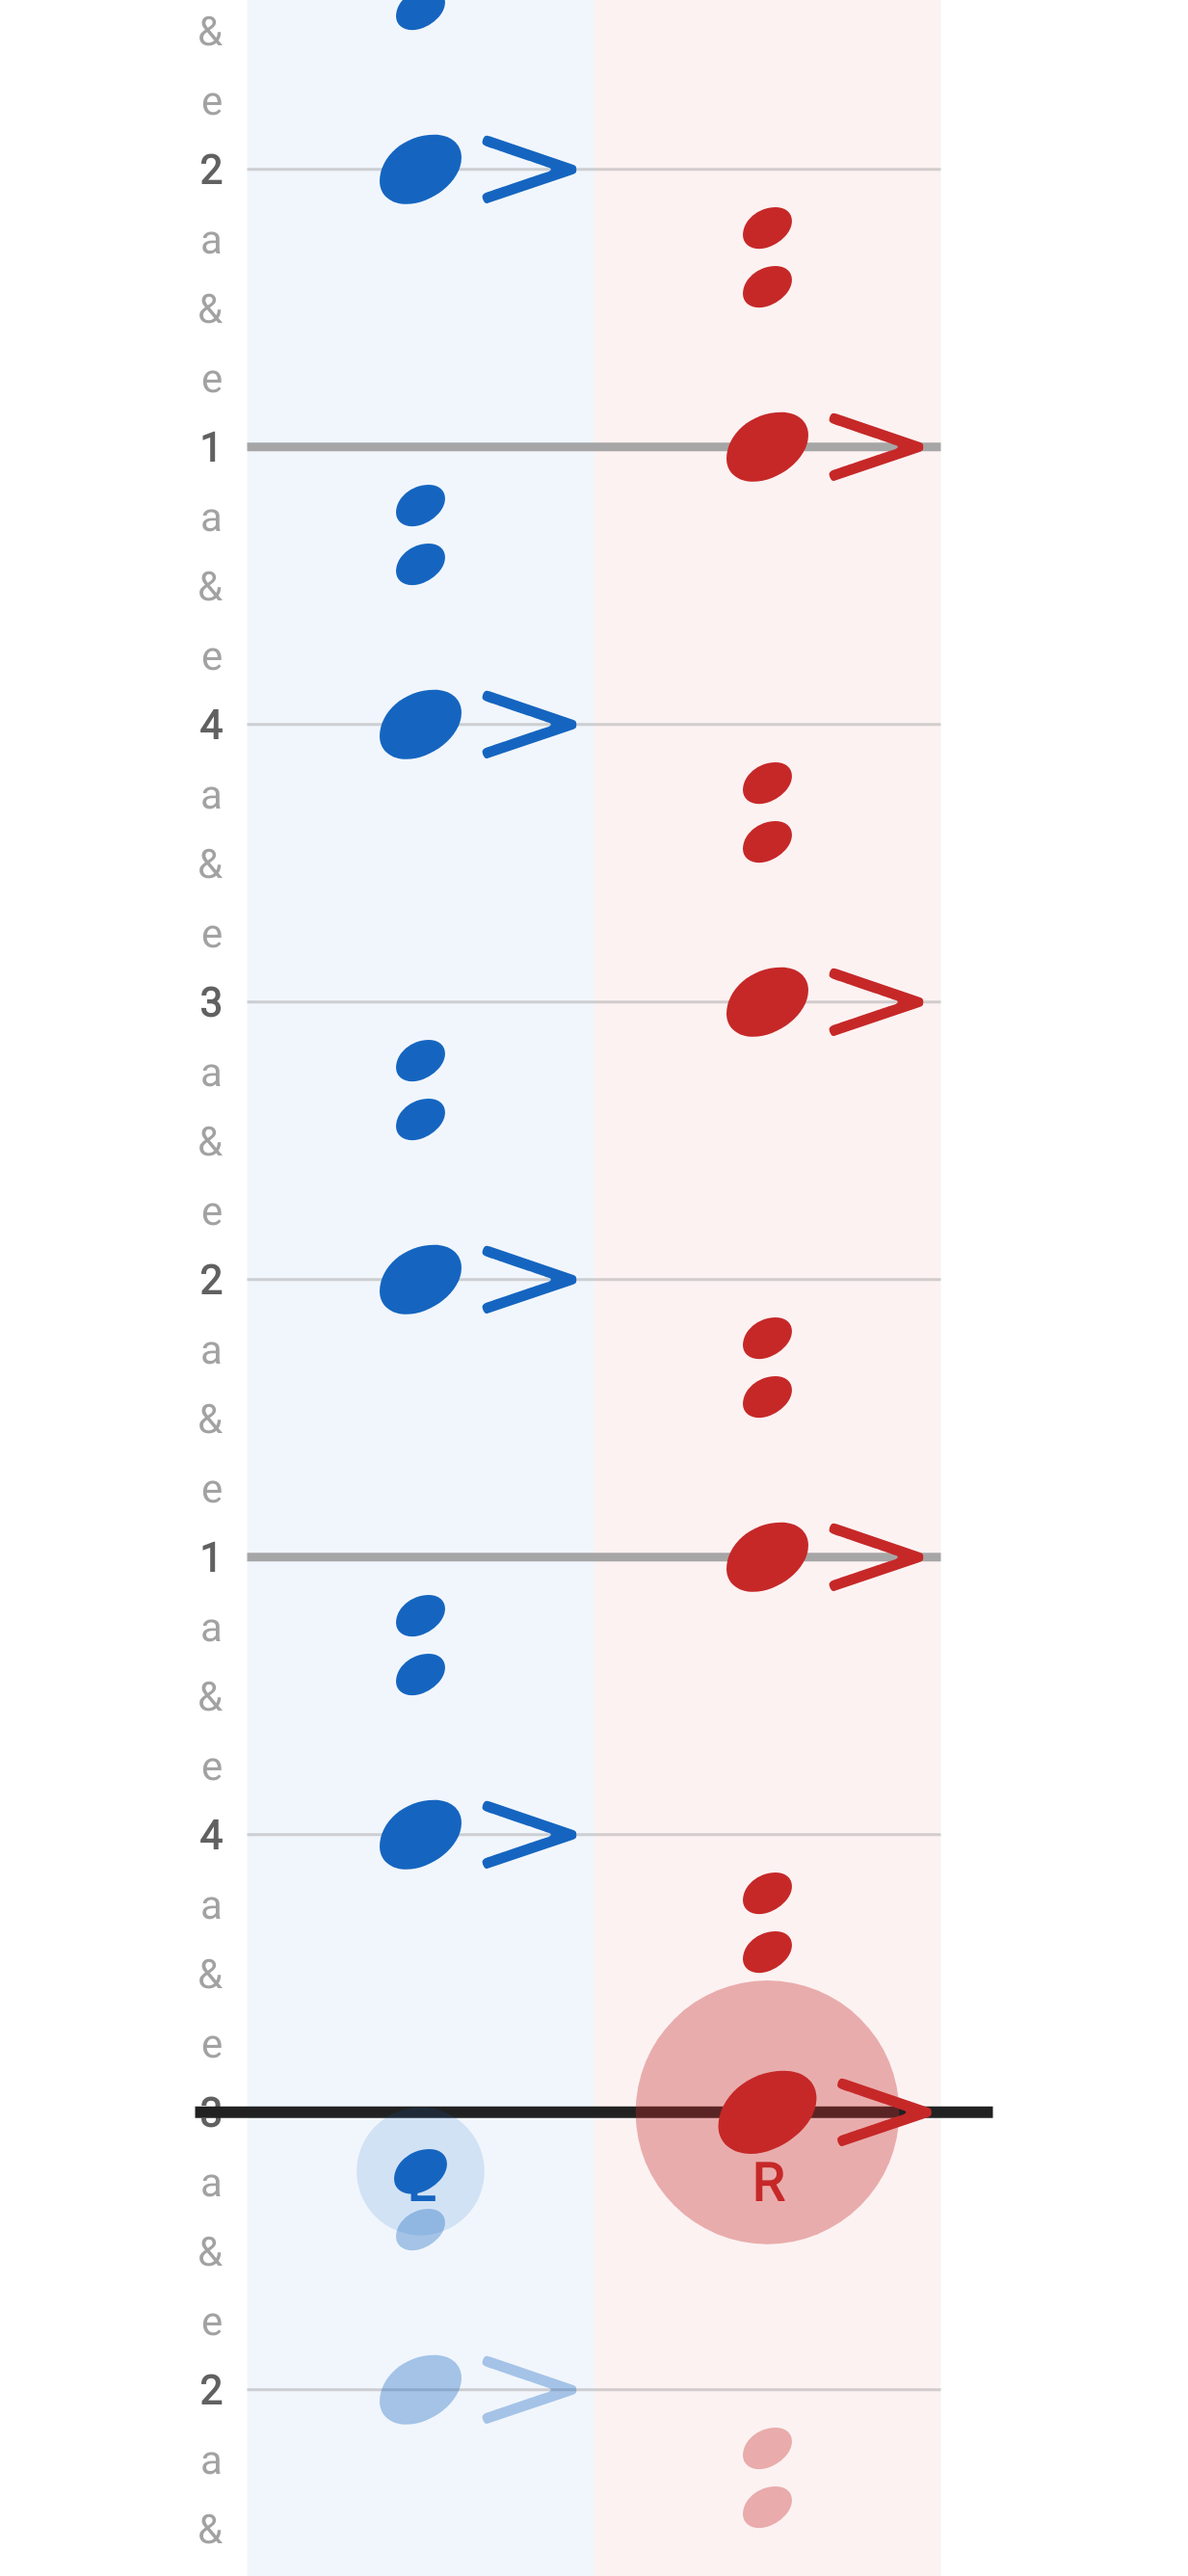
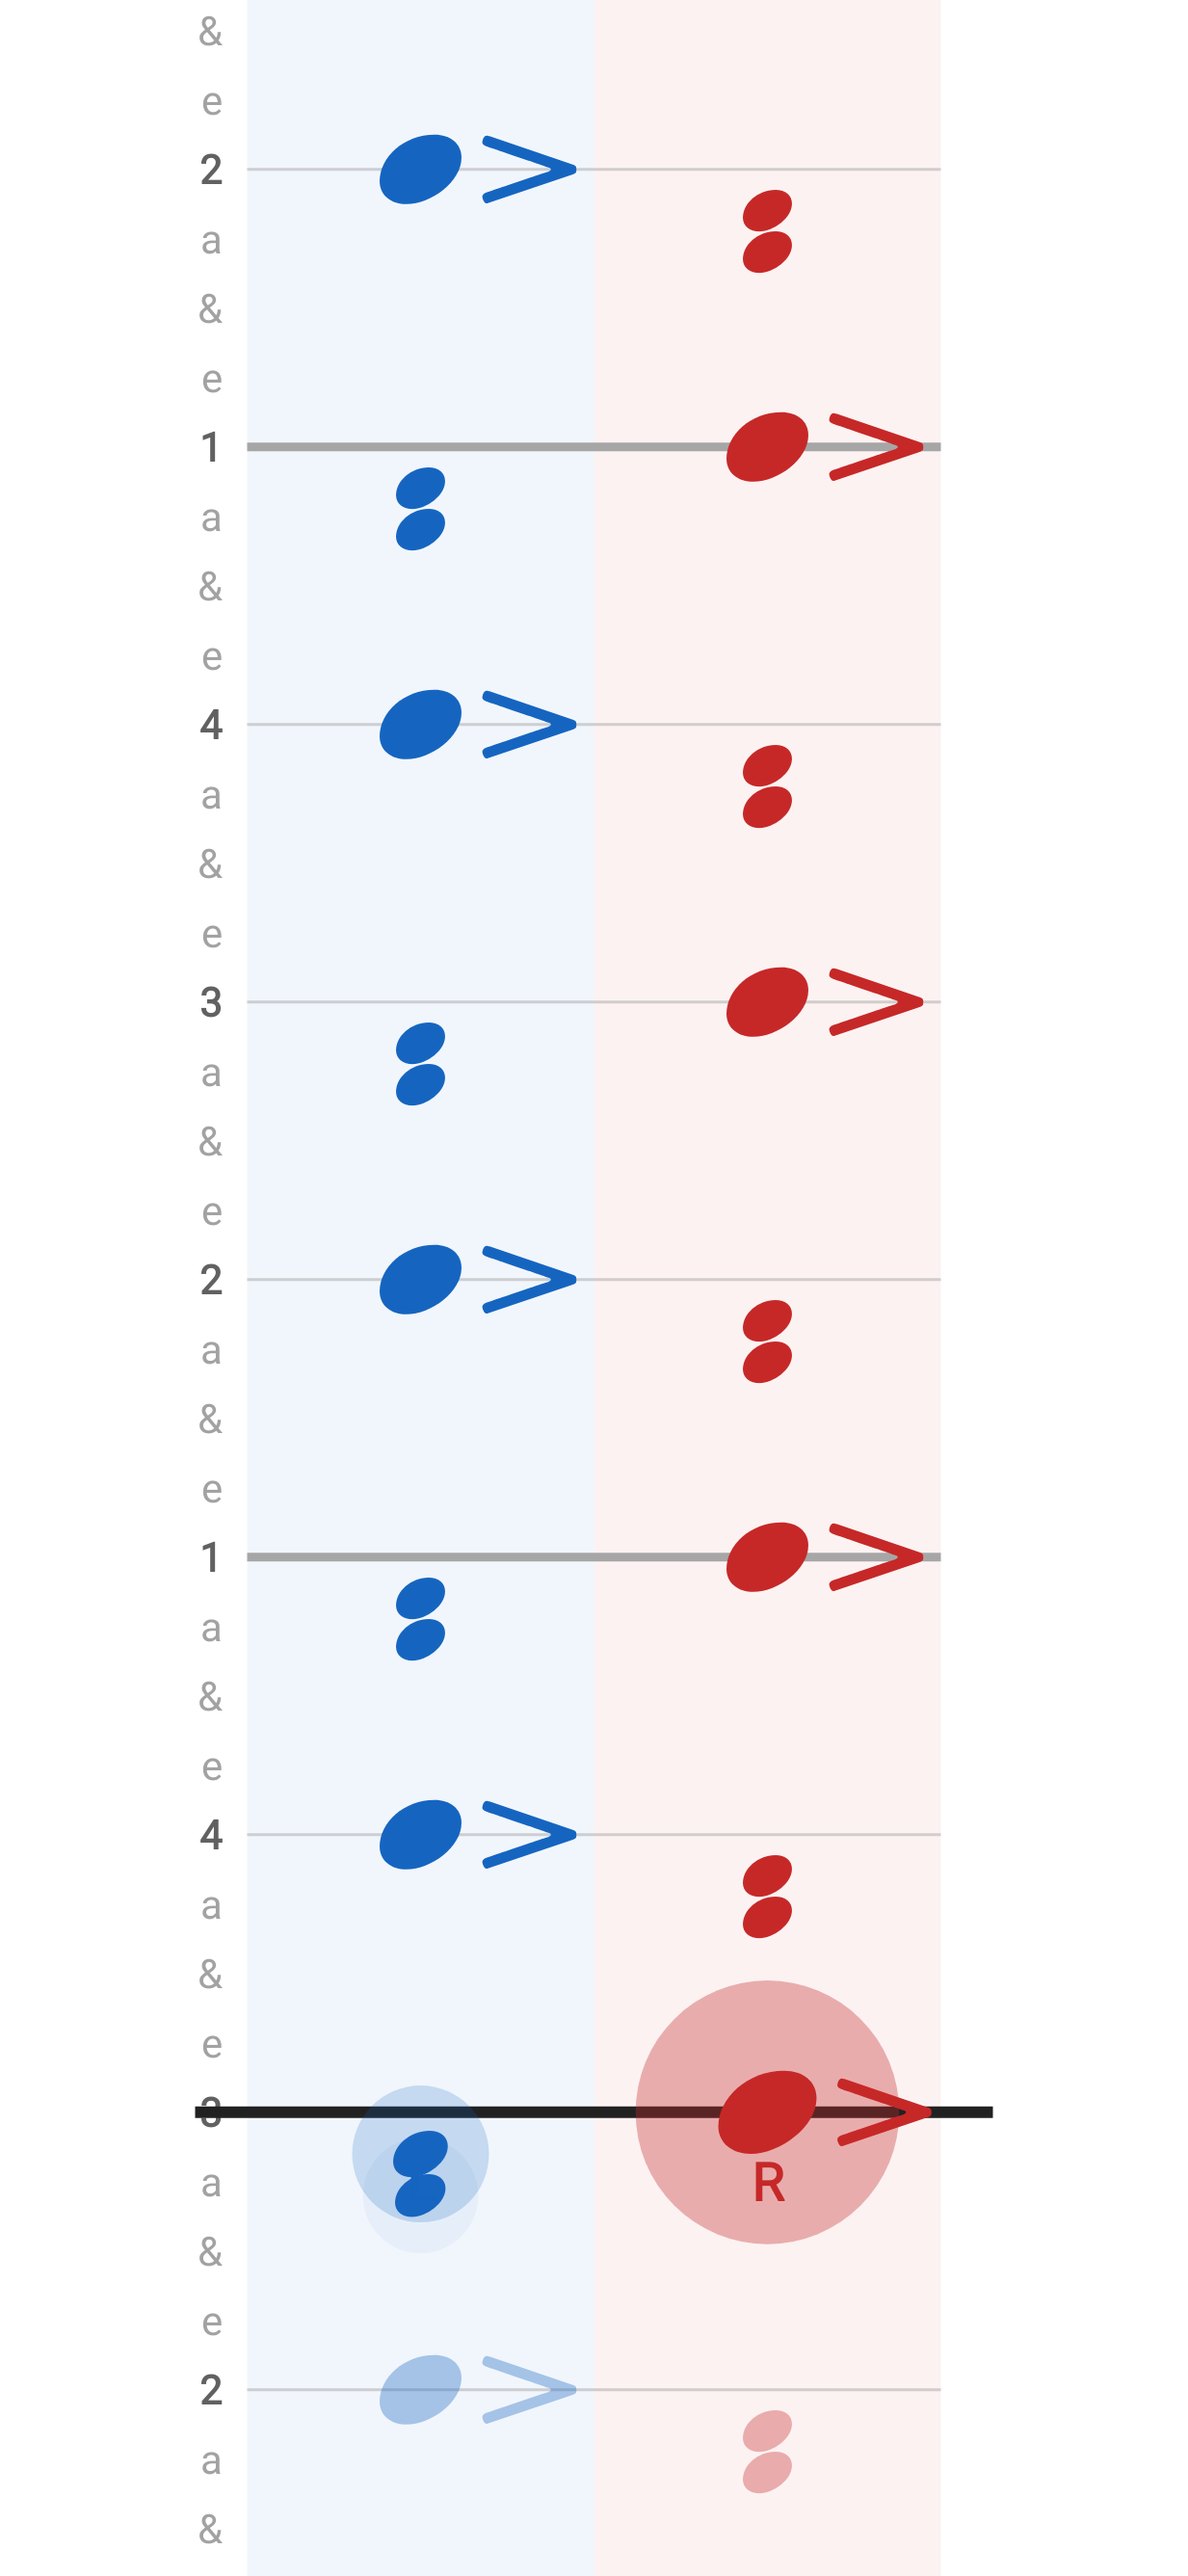
fix: keep falling-notes grace notes with their main note
In Flam Accent a grace note sat closer to the previous note in its own
lane than to its main note in the other lane, so flams read as separate
strokes (maintainer feedback on the Sony). A grace note's offset below its
main note is now at most 0.7 staff spaces per grace, and never more than
30% of the gap back to the previous note in its lane. In triplets it
closes up beside its main note, and it never touches the neighbour.

Closes #63

diff --git a/app/src/test/java/dev/co508/drums/ui/FallingNotesLayoutTest.kt b/app/src/test/java/dev/co508/drums/ui/FallingNotesLayoutTest.kt
@@ -10,6 +10,7 @@ import dev.co508.drums.ui.falling.FallingNotesGeometry
 import dev.co508.drums.ui.falling.FallingNotesLayout
 import dev.co508.drums.ui.falling.LIT_QUARTERS
 import dev.co508.drums.ui.falling.Lane
+import dev.co508.drums.ui.falling.graceOffset
 import dev.co508.drums.ui.falling.litAmount
 import org.junit.Assert.assertEquals
 import org.junit.Assert.assertFalse
@@ -144,5 +145,57 @@ class FallingNotesLayoutTest {
             )
         assertEquals(Lane.MIDDLE, l.notes.single().lane)
         assertTrue(l.hasMiddleLane)
+    }
+
+    @Test
+    fun graceNotesKnowTheGapToTheirLaneNeighbour() {
+        // Flam accent: beat 2's grace (r, R lane, at 1.0) follows beat 1's last tap (R, at 2/3).
+        val grace = layout("flam-accent").notes.first { it.graceLead > 0 && it.position == 1.0 }
+        assertEquals(Lane.RIGHT, grace.lane)
+        assertEquals(1.0 / 3, grace.laneGapQuarters, 1e-9)
+        assertEquals(1, grace.graceCount)
+        // The first grace wraps round the loop to the last note in its lane.
+        val first = layout("flam-accent").notes.first { it.graceLead > 0 }
+        assertEquals(1.0 / 3, first.laneGapQuarters, 1e-9)
+        // A drag's two graces share one main note.
+        assertTrue(layout("drag").notes.filter { it.graceLead > 0 }.all { it.graceCount == 2 })
+    }
+
+    @Test
+    fun graceNotesSitCloserToTheirMainNoteThanToTheirLaneNeighbour() {
+        // The Sony: xxhdpi (3 px per dp), lanes 120 dp wide, staff space a fifth of a lane.
+        val staffSpace = 360f * 0.2f
+        val maxStep = staffSpace * 0.7f
+        for (zoomDp in listOf(48f, 110f, 240f)) {
+            val pixelsPerQuarter = zoomDp * 3
+            for (id in listOf("flam", "flam-accent", "drag")) {
+                for (g in layout(id).notes.filter { it.graceLead > 0 }) {
+                    val offset = graceOffset(g.graceLead, g.graceCount, g.laneGapQuarters, pixelsPerQuarter, maxStep)
+                    val gap = (g.laneGapQuarters * pixelsPerQuarter).toFloat()
+                    assertTrue("$id at $zoomDp dp: grace offset $offset vs gap $gap", offset < gap / 2)
+                    // Clear of the neighbour whenever the neighbour is clear of the main note.
+                    val halfHeads = staffSpace * (0.5f + 0.3f)
+                    if (gap >
+                        staffSpace
+                    ) {
+                        assertTrue(
+                            "$id at $zoomDp dp: grace touches its neighbour",
+                            gap - offset > halfHeads,
+                        )
+                    }
+                    assertTrue(offset <= g.graceLead * maxStep)
+                }
+            }
+        }
+    }
+
+    @Test
+    fun graceOffsetsUseTheFullStepWhenThereIsRoom() {
+        assertEquals(50.4f, graceOffset(1, 1, laneGapQuarters = 2.0, pixelsPerQuarter = 330f, maxStep = 50.4f), 1e-4f)
+        // Triplet spacing at the default zoom: a third of a quarter is 110 px; 30% of that.
+        assertEquals(33f, graceOffset(1, 1, laneGapQuarters = 1.0 / 3, pixelsPerQuarter = 330f, maxStep = 50.4f), 1e-3f)
+        // Two graces share the room.
+        assertEquals(33f, graceOffset(2, 2, laneGapQuarters = 1.0 / 3, pixelsPerQuarter = 330f, maxStep = 50.4f), 1e-3f)
+        assertEquals(0f, graceOffset(0, 1, 1.0, 330f, 50.4f), 0f)
     }
 }

diff --git a/app/src/main/java/dev/co508/drums/ui/falling/FallingNotesLayout.kt b/app/src/main/java/dev/co508/drums/ui/falling/FallingNotesLayout.kt
@@ -19,6 +19,14 @@ data class FallingNote(
     val graceLead: Int = 0,
     /** For a buzz roll: its length in quarter notes, drawn as a tail. */
     val buzzQuarters: Double = 0.0,
+    /** For a grace note: how many grace notes lead into its main note (1 for a flam, 2 for a drag). */
+    val graceCount: Int = 0,
+    /**
+     * For a grace note: the time back to the previous note in its own lane, in
+     * quarter notes (wrapping around the loop). Its offset stays well inside
+     * this, so it reads as part of its main note, not of that neighbour.
+     */
+    val laneGapQuarters: Double = Double.POSITIVE_INFINITY,
 )
 
 /** A grid line: a beat, or a bar line ([isBar]). */
@@ -93,16 +101,57 @@ class FallingNotesLayout(
                     k++
                 }
             }
+            val length = timeline.length.toDouble()
             return FallingNotesLayout(
-                lengthQuarters = timeline.length.toDouble(),
+                lengthQuarters = length,
                 beatQuarters = timeline.timeSignature.beatQuarters.toDouble(),
-                notes = notes.sortedBy { it.position },
+                notes = withGraceSpacing(notes.sortedBy { it.position }, length),
                 grid = grid,
                 counts = counts,
             )
         }
     }
 }
+
+/** Fills in each grace note's [FallingNote.graceCount] and [FallingNote.laneGapQuarters]. */
+private fun withGraceSpacing(
+    notes: List<FallingNote>,
+    length: Double,
+): List<FallingNote> {
+    val positionsByLane = notes.groupBy { it.lane }.mapValues { (_, n) -> n.map { it.position }.distinct().sorted() }
+    return notes.map { note ->
+        if (note.graceLead == 0) return@map note
+        val count = notes.filter { it.position == note.position && it.graceLead > 0 }.maxOf { it.graceLead }
+        val lane = positionsByLane.getValue(note.lane)
+        val previous = lane.lastOrNull { it < note.position } ?: (lane.last() - length)
+        val gap = if (previous < note.position) note.position - previous else length
+        note.copy(graceCount = count, laneGapQuarters = gap)
+    }
+}
+
+/**
+ * How far below its main note a grace note is drawn, in pixels: [lead] steps
+ * of at most [maxStep] each, shrunk so that the farthest grace stays within
+ [GRACE_GAP_SHARE] of the gap to the previous note in its lane. A grace note
+ * is then always closer to its main note than to that neighbour, and in dense
+ * music it closes up toward its main note rather than collide with the
+ * neighbour.
+ */
+fun graceOffset(
+    lead: Int,
+    count: Int,
+    laneGapQuarters: Double,
+    pixelsPerQuarter: Float,
+    maxStep: Float,
+): Float {
+    if (lead <= 0) return 0f
+    val room = (laneGapQuarters * pixelsPerQuarter * GRACE_GAP_SHARE).toFloat()
+    val step = minOf(maxStep, room / count.coerceAtLeast(1))
+    return lead * step
+}
+
+/** The share of the gap to a grace note's lane neighbour its offset may use: well under half, so it stays with its main note and clear of the neighbour. */
+const val GRACE_GAP_SHARE = 0.3
 
 /**
  * Where things go on screen. Time runs up the screen: the note being played

diff --git a/app/src/main/java/dev/co508/drums/ui/falling/FallingNotesView.kt b/app/src/main/java/dev/co508/drums/ui/falling/FallingNotesView.kt
@@ -198,8 +198,16 @@ private class NotePainter(
         val grace = note.graceLead > 0
         val scale = if (grace) GRACE_SCALE else 1f
         // A grace note sounds just before its main note, so it sits just below it
-        // (earlier, nearer the hit line), a fixed gap per grace whatever the zoom.
-        val y = geometry.y(position, now) + note.graceLead * staffSpace * GRACE_STEP
+        // (earlier, nearer the hit line), and always nearer it than its lane neighbour.
+        val y =
+            geometry.y(position, now) +
+                graceOffset(
+                    note.graceLead,
+                    note.graceCount,
+                    note.laneGapQuarters,
+                    geometry.pixelsPerQuarter,
+                    staffSpace * GRACE_STEP,
+                )
         // Lit and passed are judged by where the note is drawn, so a grace note lights
         // as it crosses the line, just before its main note.
         val quartersPast = (y - geometry.hitLineY) / geometry.pixelsPerQuarter
@@ -277,6 +285,6 @@ private class NotePainter(
 
     private companion object {
         const val GRACE_SCALE = 0.6f
-        const val GRACE_STEP = 0.85f
+        const val GRACE_STEP = 0.7f
     }
 }

diff --git a/app/src/testDebug/java/dev/co508/drums/ui/FallingNotesScreenshotTest.kt b/app/src/testDebug/java/dev/co508/drums/ui/FallingNotesScreenshotTest.kt
@@ -75,6 +75,10 @@ class FallingNotesScreenshotTest {
     @Test
     fun drag() = capture("drag", 2.0, "drag-portrait")
 
+    /** Flams: each grace note sits just under its main note in the other lane. */
+    @Test
+    fun flam() = capture("flam", 1.0, "flam-portrait")
+
     /** The count-in: the grid falls with no notes yet. */
     @Test
     fun countIn() = capture("single-stroke-roll", -2.0, "count-in-portrait")

diff --git a/DECISIONS.md b/DECISIONS.md
@@ -55,7 +55,10 @@ from standard notation (Bravura glyphs): noteheads, accent `>`, ghost notes in
 parentheses, rimshot notehead.
 
 - **Grace notes:** a flam's grace note is a small notehead in the other lane,
-  just *below* its main note, a fixed gap per grace note whatever the zoom.
+  just *below* its main note. Its offset is at most 0.7 staff spaces per
+  grace note. It never uses more than 30% of the gap back to the previous
+  note in its own lane, so in dense music (flam accents' triplets) it closes
+  up beside its main note instead of looking like part of its neighbour.
   Time runs up the screen, so below is earlier: the grace note crosses the
   hit line, and lights up, just before its main note, as it sounds. (The
   first draft of this decision said "just above", which would make a grace
